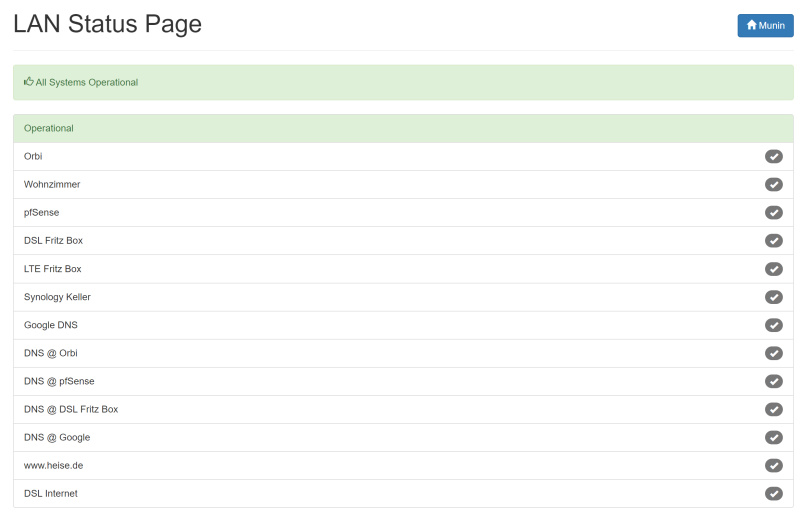
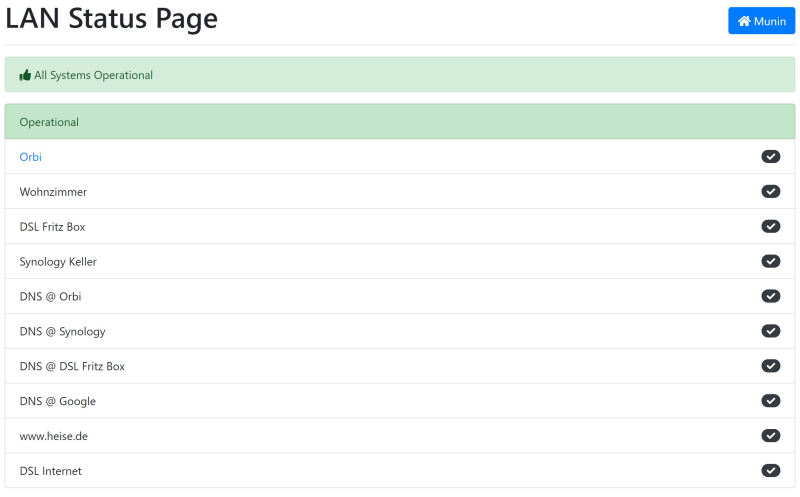
custom html as text

diff --git a/README.md b/README.md
@@ -89,12 +89,12 @@ Add:
 
 You can display a custom text instead of the HOSTNAME/IP/URL (see example below).
 
-![Screenshot](images/Status-Page-Custom-Text.png)
+![Screenshot](images/Status-Page-Custom-Text.png?v2)
 
 status_hostname_list.txt:
 
 ```csv
-ping;192.168.100.1|Orbi
+ping;192.168.100.1|<a href="http://192.168.100.1/">Orbi</a>
 ping;192.168.100.102|Wohnzimmer
 ping;192.168.221.1|pfSense
 ping;192.168.211.1|DSL Fritz Box
@@ -111,14 +111,14 @@ traceroute;192.168.211.1|DSL Internet;3
 
 ## Requirements
 
-Only `bash`, `ping`, `traceroute`, `curl`, `nc` and `grep`.
+Only `bash`, `ping`, `traceroute`, `curl`, `nc`, `grep` and `sed`.
 In many *NIX distributions (Ubuntu, macOS) the commands are already included.
 If not, the missing packages can be installed quickly.
 
 On a debian-based system (Ubuntu), just run:
 
 ```bash
-sudo apt install curl iputils-ping traceroute netcat-openbsd grep
+sudo apt install curl iputils-ping traceroute netcat-openbsd grep sed
 ```
 
 ## TODO
